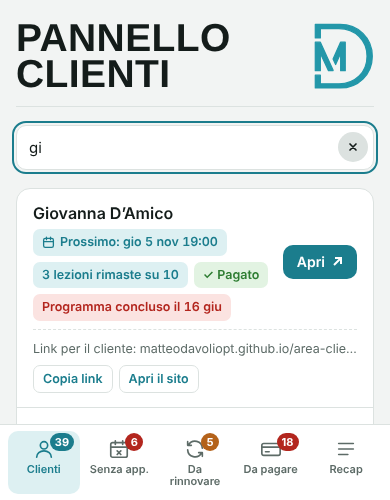
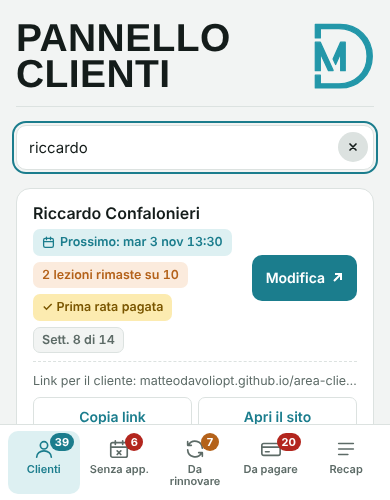
Pannello: Apri diventa Modifica, pulsante più alto
Claude-Session: https://claude.ai/code/session_01PNZjD9Cw3Up9MrF1RBQjmQ

diff --git a/pannello-090b78ba40b4/index.html b/pannello-090b78ba40b4/index.html
@@ -92,7 +92,7 @@ h1,h2{margin:0;text-wrap:balance}
 .tag.warn{color:var(--warn);background:var(--warn-soft);border-color:transparent}
 .tag.rata{color:var(--rata-ink);background:var(--rata-bg);border-color:transparent}
 .tag.bad{color:var(--bad);background:var(--bad-soft);border-color:transparent}
-.open{display:inline-flex;align-items:center;gap:6px;text-decoration:none;font:600 14px/1 var(--body);color:var(--accent-ink);background:var(--accent);padding:10px 14px;border-radius:10px;white-space:nowrap}
+.open{display:inline-flex;align-items:center;gap:6px;text-decoration:none;font:600 14px/1 var(--body);color:var(--accent-ink);background:var(--accent);padding:16px 14px;border-radius:10px;white-space:nowrap}
 .open svg{width:12px;height:12px;stroke:currentColor;fill:none;stroke-width:2}
 .empty{color:var(--muted);background:var(--surface);border:1px dashed var(--line);border-radius:14px;padding:20px;text-align:center}
 .foot{color:var(--muted);font-size:13px}
@@ -300,7 +300,7 @@ function render(){
       var url = /^https:\/\/claude\.ai\//.test(x.c.url||'') ? x.c.url : '';
       var site = x.c.site || SITES[x.c.url||''] || '', site = /^https:\/\//.test(site) ? site : '';
       h += '<li class="row"><div class="who"><b>'+esc(x.c.name)+'</b><div class="tags">'+x.s.tags.map(function(t){ return '<span class="tag '+t.c+'">'+((t.c==='next'||t.c==='nonext')?CAL:'')+esc(t.t)+'</span>'; }).join('')+'</div></div>'+
-        (url?'<a class="open" href="'+esc(url)+'" target="_blank" rel="noopener">Apri'+ARROW+'</a>':'')+
+        (url?'<a class="open" href="'+esc(url)+'" target="_blank" rel="noopener">Modifica'+ARROW+'</a>':'')+
         (site?'<div class="site"><span>Link per il cliente: '+esc(site.replace(/^https:\/\//,''))+'</span><input type="text" readonly tabindex="-1" aria-hidden="true" value="'+esc(site)+'"><button type="button" data-copy="'+esc(site)+'">Copia link</button><a href="'+esc(site)+'" target="_blank" rel="noopener">Apri il sito</a></div>':'')+'</li>';
     });
     h += '</ul>';

diff --git a/pannello.html b/pannello.html
@@ -72,7 +72,7 @@ h1,h2{margin:0;text-wrap:balance}
 .tag.warn{color:var(--warn);background:var(--warn-soft);border-color:transparent}
 .tag.rata{color:var(--rata-ink);background:var(--rata-bg);border-color:transparent}
 .tag.bad{color:var(--bad);background:var(--bad-soft);border-color:transparent}
-.open{display:inline-flex;align-items:center;gap:6px;text-decoration:none;font:600 14px/1 var(--body);color:var(--accent-ink);background:var(--accent);padding:10px 14px;border-radius:10px;white-space:nowrap}
+.open{display:inline-flex;align-items:center;gap:6px;text-decoration:none;font:600 14px/1 var(--body);color:var(--accent-ink);background:var(--accent);padding:16px 14px;border-radius:10px;white-space:nowrap}
 .open svg{width:12px;height:12px;stroke:currentColor;fill:none;stroke-width:2}
 .empty{color:var(--muted);background:var(--surface);border:1px dashed var(--line);border-radius:14px;padding:20px;text-align:center}
 .foot{color:var(--muted);font-size:13px}
@@ -279,7 +279,7 @@ function render(){
       var url = /^https:\/\/claude\.ai\//.test(x.c.url||'') ? x.c.url : '';
       var site = x.c.site || SITES[x.c.url||''] || '', site = /^https:\/\//.test(site) ? site : '';
       h += '<li class="row"><div class="who"><b>'+esc(x.c.name)+'</b><div class="tags">'+x.s.tags.map(function(t){ return '<span class="tag '+t.c+'">'+((t.c==='next'||t.c==='nonext')?CAL:'')+esc(t.t)+'</span>'; }).join('')+'</div></div>'+
-        (url?'<a class="open" href="'+esc(url)+'" target="_blank" rel="noopener">Apri'+ARROW+'</a>':'')+
+        (url?'<a class="open" href="'+esc(url)+'" target="_blank" rel="noopener">Modifica'+ARROW+'</a>':'')+
         (site?'<div class="site"><span>Link per il cliente: '+esc(site.replace(/^https:\/\//,''))+'</span><input type="text" readonly tabindex="-1" aria-hidden="true" value="'+esc(site)+'"><button type="button" data-copy="'+esc(site)+'">Copia link</button><a href="'+esc(site)+'" target="_blank" rel="noopener">Apri il sito</a></div>':'')+'</li>';
     });
     h += '</ul>';
